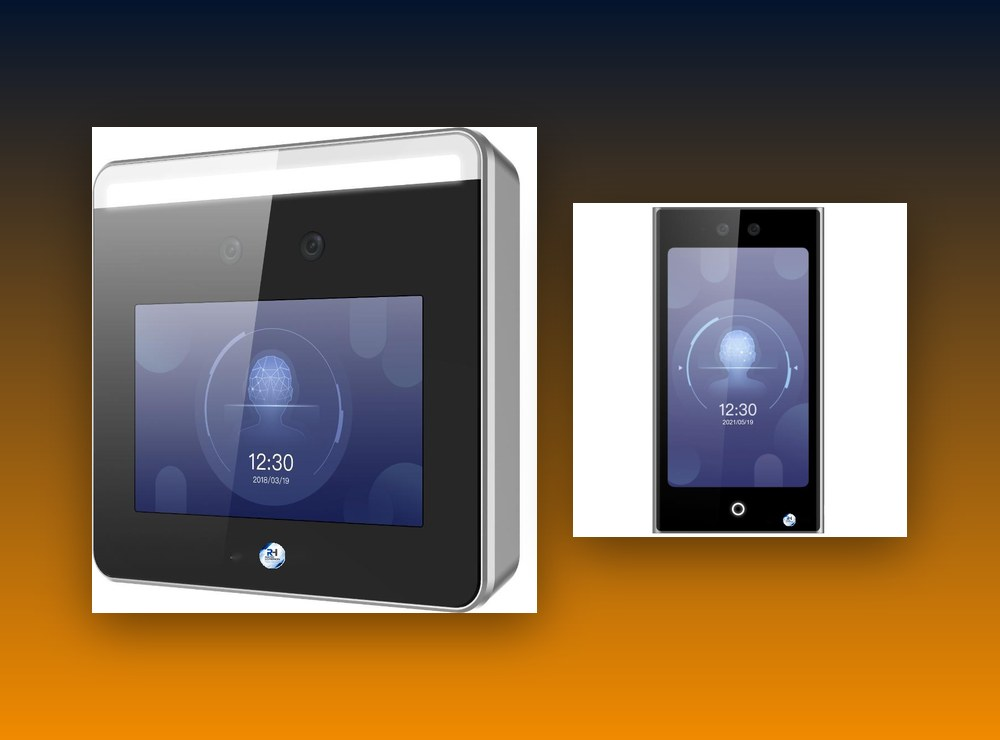
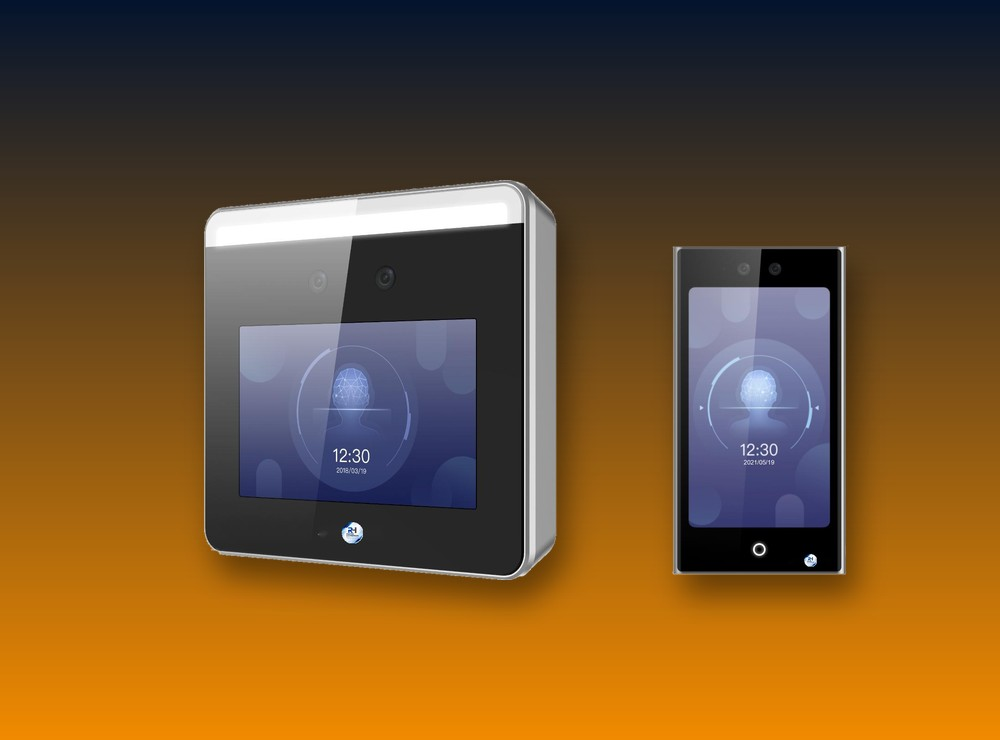
Control: quitar fotos internas del cliente y recuadro blanco de terminales
Claude-Session: https://claude.ai/code/session_01FVowoMnEw92mqYe9Mj6hSC

diff --git a/tecnologia/control/index.html b/tecnologia/control/index.html
@@ -34,7 +34,7 @@
 <li>Reutilizamos las barreras existentes siempre que sea posible.</li>
 <li>La plataforma de gestión, cobros y datos la aporta el cliente o su proveedor de software, y nos integramos a ella.</li>
 <li>Solución pensada para replicarse en otros recintos.</li></ul></div></div>
-<div class="gal three" style="margin-top:34px"><figure><img src="/assets/site/park-barrera-1.jpg" alt="Carril de entrada con barrera existente" loading="lazy"><figcaption>Carril con barrera existente</figcaption></figure><figure><img src="/assets/site/park-carril.jpg" alt="Carril de salida con dos barreras" loading="lazy"><figcaption>Salida con doble barrera</figcaption></figure><figure><img src="/assets/site/park-acceso.jpg" alt="Acceso vehicular bajo autopista" loading="lazy"><figcaption>Acceso vehicular cubierto</figcaption></figure><figure><img src="/assets/site/park-fuente.jpg" alt="Fuente y protecciones eléctricas del gabinete de barrera" loading="lazy"><figcaption>Fuente y protecciones</figcaption></figure><figure><img src="/assets/site/park-controladora.jpg" alt="Controladora de barrera" loading="lazy"><figcaption>Controladora de la barrera</figcaption></figure><figure><img src="/assets/site/park-gabinete.jpg" alt="Gabinete de comunicaciones" loading="lazy"><figcaption>Gabinete de comunicaciones</figcaption></figure></div>
+<div class="gal three" style="margin-top:34px"><figure><img src="/assets/site/park-barrera-1.jpg" alt="Carril de entrada con barrera existente" loading="lazy"><figcaption>Carril con barrera existente</figcaption></figure><figure><img src="/assets/site/park-carril.jpg" alt="Carril de salida con dos barreras" loading="lazy"><figcaption>Salida con doble barrera</figcaption></figure><figure><img src="/assets/site/park-acceso.jpg" alt="Acceso vehicular bajo autopista" loading="lazy"><figcaption>Acceso vehicular cubierto</figcaption></figure></div>
 <p class="note">Fotos del relevamiento en sitio.</p>
 <div class="fly" style="margin-top:34px"><img src="/assets/site/park-render-autoservicio.jpg" alt="Render ilustrativo de kiosco de autoservicio junto a una barrera" loading="lazy" style="max-width:none;width:100%;border-radius:14px"><div><span class="kicker">Autoservicio</span><h3>Kiosco de pago y validación por QR</h3><p>Tablet industrial en pedestal antivandálico, lector de QR, impresora de tickets y lector de proximidad, junto a la barrera. Resuelve el acceso de quien no tiene ingreso previo.</p><p class="note" style="margin-top:8px">Render ilustrativo.</p></div></div>
 <p style="margin-top:26px"><a class="btn btn-blue btn-sm" href="/#contacto">Consultar por una solución de estacionamientos</a></p>
